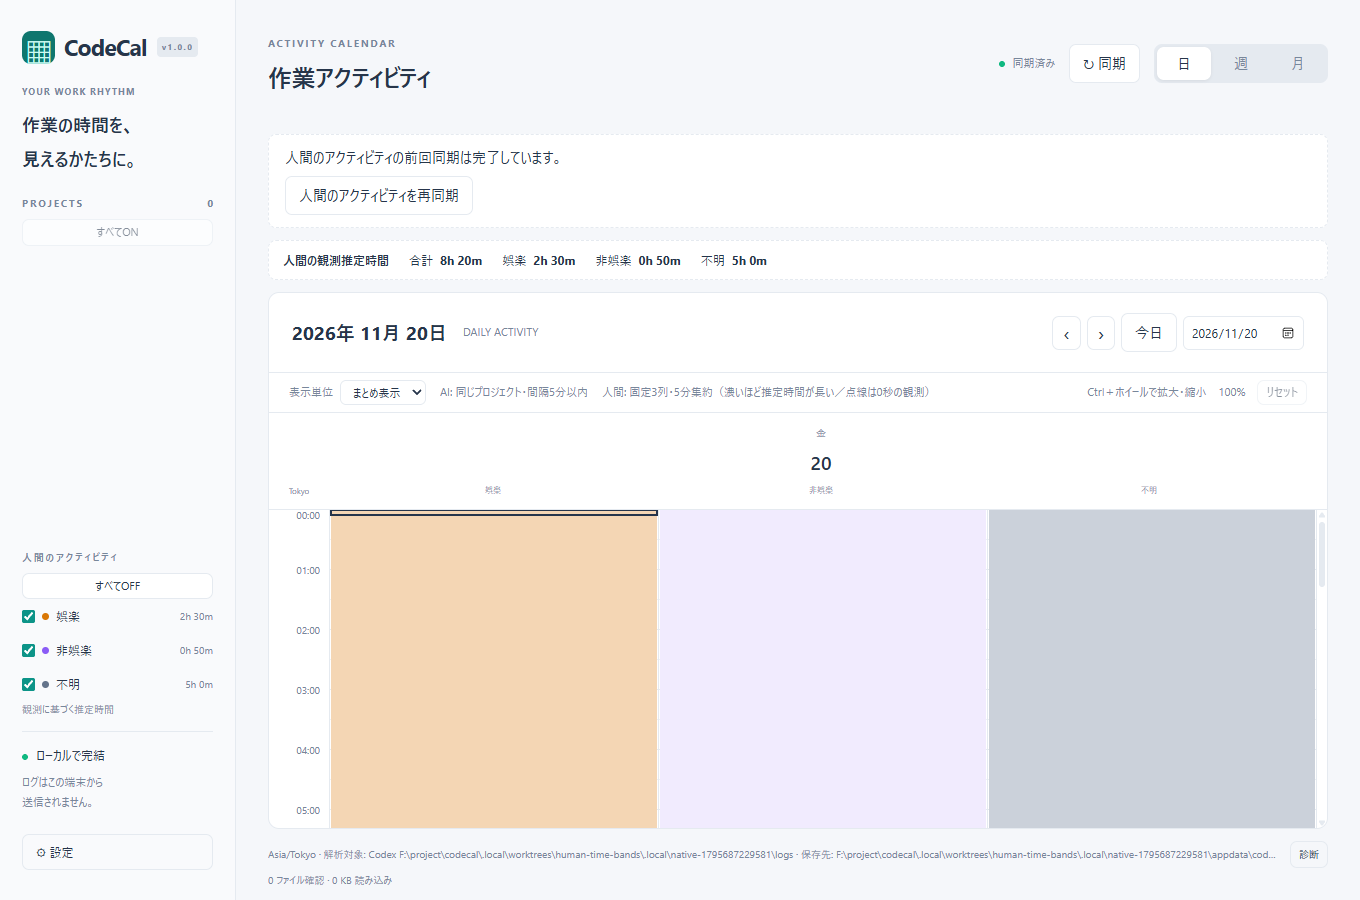
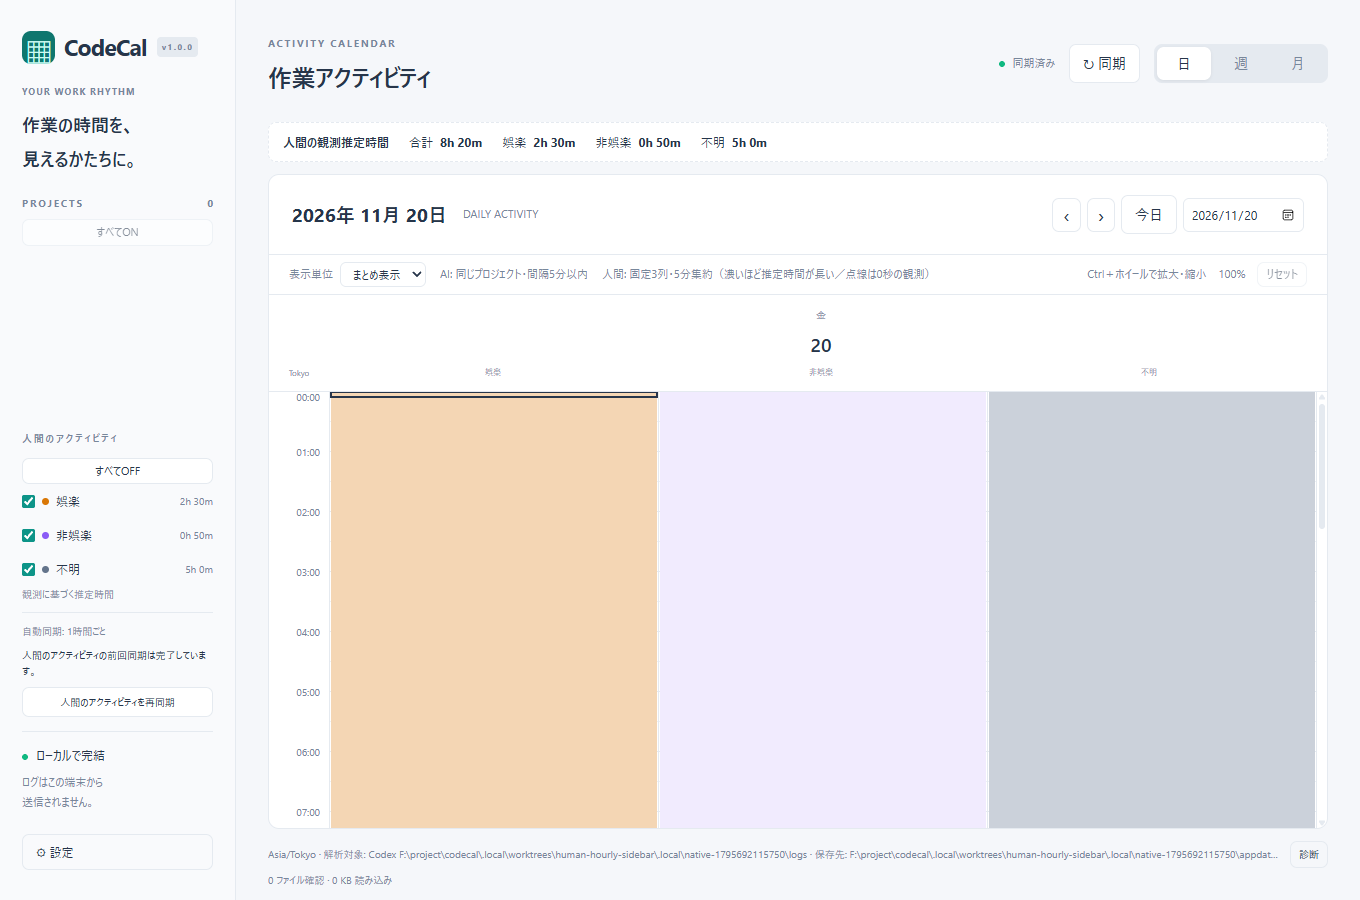
test: verify hourly sidebar synchronization in native Windows

diff --git a/tests/e2e/native.spec.ts b/tests/e2e/native.spec.ts
@@ -102,6 +102,22 @@ test("human settings: legacy memory database, isolated IPC, WAL updates, OFF res
     db.exec(
       "UPDATE activity_records SET payload=json_set(payload,'$.durationEstimate',180)",
     );
+    const humanSidebar = page.getByRole("region", {
+      name: "人間のアクティビティ",
+      exact: true,
+    });
+    const humanSync = humanSidebar.getByRole("region", {
+      name: "人間のアクティビティ同期",
+      exact: true,
+    });
+    await expect(humanSync).toContainText("1時間ごと");
+    expect((await period()).records[0].end).toBe(captured + 120000);
+    await humanSync
+      .getByRole("button", {
+        name: "人間のアクティビティを再同期",
+        exact: true,
+      })
+      .click();
     await expect
       .poll(async () => (await period()).records[0]?.end, { timeout: 40000 })
       .toBe(captured + 180000);
@@ -322,11 +338,37 @@ test("human settings: legacy memory database, isolated IPC, WAL updates, OFF res
       const removeProject = fixture.prepare("DELETE FROM projects WHERE id=?");
       for (const id of fixtureProjects) removeProject.run(id);
       fixture.close();
+      const beforeCleanup = (await ipc<{ revision: number }>("human_status"))
+        .revision;
       await ipc("sync_logs");
+      await expect
+        .poll(async () => {
+          const status = await ipc<{ revision: number; busy: boolean }>(
+            "human_status",
+          );
+          return status.revision > beforeCleanup && !status.busy;
+        })
+        .toBe(true);
     }
     for (const file of [cachePath, `${cachePath}-wal`, `${cachePath}-shm`]) {
-      if (existsSync(file))
-        expect(readFileSync(file).includes(Buffer.from(marker))).toBe(false);
+      let bytes: Buffer = Buffer.alloc(0);
+      await expect
+        .poll(() => {
+          try {
+            bytes = existsSync(file) ? readFileSync(file) : Buffer.alloc(0);
+            return true;
+          } catch (error) {
+            if (
+              ["EBUSY", "ENOENT"].includes(
+                (error as NodeJS.ErrnoException).code ?? "",
+              )
+            )
+              return false;
+            throw error;
+          }
+        })
+        .toBe(true);
+      expect(bytes.includes(Buffer.from(marker))).toBe(false);
     }
     await page.getByRole("button", { name: "設定", exact: true }).click();
     await page.getByLabel("人間のアクティビティ機能を有効にする").uncheck();
@@ -1921,6 +1963,7 @@ test("human bands: dense day/week lanes, duration coverage and keyboard details"
     });
     if (await guide.count()) await guide.click();
     await page.getByRole("button", { name: "設定", exact: true }).click();
+    await page.getByLabel("テーマ", { exact: true }).selectOption("light");
     await page.getByLabel("れいの AI 実行履歴を取り込む").uncheck();
     await page.getByLabel("Claude Code の履歴を取り込む").uncheck();
     await page.getByLabel("人間のアクティビティ機能を有効にする").check();
@@ -1951,6 +1994,30 @@ test("human bands: dense day/week lanes, duration coverage and keyboard details"
     await expect(
       page.getByRole("region", { name: "表示期間の集計" }),
     ).toHaveCount(0);
+    const sidebarSync = page
+      .getByRole("region", { name: "人間のアクティビティ", exact: true })
+      .getByRole("region", { name: "人間のアクティビティ同期", exact: true });
+    await expect(sidebarSync).toContainText("1時間ごと");
+    await expect(page.locator(".workspace .human-sync")).toHaveCount(0);
+    const normalViewport =
+      page.viewportSize() ??
+      (await page.evaluate(() => ({
+        width: window.innerWidth,
+        height: window.innerHeight,
+      })));
+    await page.setViewportSize({ width: 1100, height: 600 });
+    const manual = sidebarSync.getByRole("button", {
+      name: "人間のアクティビティを再同期",
+      exact: true,
+    });
+    await manual.scrollIntoViewIfNeeded();
+    await expect(manual).toBeVisible();
+    await expect(
+      sidebarSync.locator("..").locator(".sidebar-label"),
+    ).toBeInViewport();
+    await page.getByRole("button", { name: "設定", exact: true }).click();
+    await page.getByRole("button", { name: "閉じる", exact: true }).click();
+    await page.setViewportSize(normalViewport);
     const first = page
       .locator('.human-time-lane[data-kind="entertainment"] button')
       .first();
@@ -1989,6 +2056,31 @@ test("human bands: dense day/week lanes, duration coverage and keyboard details"
     await expect(
       page.locator('.human-time-lane[data-kind="unknown"] button'),
     ).toHaveCount(0);
+    const missingRoot = path.join(root, "missing-human-source");
+    mkdirSync(missingRoot, { recursive: true });
+    await page.getByRole("button", { name: "設定", exact: true }).click();
+    await page.getByLabel("れい データディレクトリ").fill(missingRoot);
+    await page.getByRole("button", { name: "設定を保存", exact: true }).click();
+    const warnedSettings = page.getByRole("dialog", {
+      name: "設定",
+      exact: true,
+    });
+    await expect(warnedSettings).toContainText(
+      "前回の正常なキャッシュは保持します",
+    );
+    await warnedSettings
+      .getByRole("button", { name: "閉じる", exact: true })
+      .click();
+    await expect(warnedSettings).toHaveCount(0);
+    await expect(sidebarSync.getByRole("alert")).toContainText(
+      "保存先を開けません",
+    );
+    await page.setViewportSize({ width: 1100, height: 600 });
+    await manual.scrollIntoViewIfNeeded();
+    await expect(manual).toBeVisible();
+    await expect(
+      sidebarSync.locator("..").locator(".sidebar-label"),
+    ).toBeInViewport();
     await page.getByRole("button", { name: "設定", exact: true }).click();
     await page.getByLabel("人間のアクティビティ機能を有効にする").uncheck();
     await page.getByRole("button", { name: "設定を保存", exact: true }).click();

diff --git a/docs/human-hourly-sidebar-tests.md b/docs/human-hourly-sidebar-tests.md
@@ -1,12 +1,20 @@
 # 人間の自動同期とサイドバーのテスト
 
-- [ ] 人間の自動確認・変更通知による同期は前回完了から1時間空け、通知を集約する
-- [ ] 初回ON・Root変更・手動同期は待機せず、自動更新OFF・機能OFFでは自動取得しない
-- [ ] 1時間境界・変更なしスキップ・失敗後の再試行・保存先切替を短い試験用間隔で実ワーカー検証する
-- [ ] 同期中に届いた通知を次回へ保持し、自動更新OFFへの変更で古い予約を解除する
-- [ ] 同期状況・エラー・診断・手動再同期を左メニューの人間セクション末尾へ移す
-- [ ] 狭い高さ、長いエラー、ライト/ダークでも同期ボタンと設定が操作できる
-- [ ] AIの自動更新間隔とReiのデータ・設定は変更しない
-- [ ] 全回帰・静的検査・ビルド・Windowsネイティブ・画面確認
+- [x] 人間の自動確認・変更通知による同期は前回完了から1時間空け、通知を集約する
+- [x] 初回ON・Root変更・手動同期は待機せず、自動更新OFF・機能OFFでは自動取得しない
+- [x] 1時間境界・変更なしスキップ・失敗後の再試行・保存先切替を短い試験用間隔で実ワーカー検証する
+- [x] 同期中に届いた通知を次回へ保持し、自動更新OFFへの変更で古い予約を解除する
+- [x] 同期状況・エラー・診断・手動再同期を左メニューの人間セクション末尾へ移す
+- [x] 狭い高さ、長いエラー、ライト/ダークでも同期ボタンと設定が操作できる
+- [x] AIの自動更新間隔とReiのデータ・設定は変更しない
+- [x] 全回帰・静的検査・ビルド・Windowsネイティブ・画面確認
 
 運用終了条件: PR CI、通常マージ、マージ後CI、main更新、専用worktreeとローカル/リモートブランチの通常削除。
+
+ローカル検証: Rust135（全target/benchmark feature/直列）、Vitest117、Python17、release9、Windows native19（最終全体18成功＋既存起動試験のDevTools接続タイムアウト1件を単独再確認して成功）、計297ケースを確認。fmt/Clippy/typecheck/lint/Prettier/Vite/Tauri NSIS成功。既存5秒待機がローカル並列でタイムアウトしたため、待機を延長せず直列で全件を確認した。CIでは既定の並列実行とネイティブ全19件も確認する。
+
+合成worker smoke（1万件、明示的なbenchmark featureの1秒間隔）も成功。製品の1時間境界は通常constructorと時計境界の試験で検証し、通知なしの再試行・保存先切替はprivate constructorの短い試験間隔で検証した。Reiの原本や設定は変更していない。
+
+画面例は合成データのみ: [日](screenshots/human-bands-day.png) / [週](screenshots/human-bands-week.png)。600px高と長い読取エラーでも、再同期・設定ボタンが操作できることをネイティブ確認した。
+
+キャッシュの禁止内容検査は、手動同期の完了をrevisionで待ち、Windowsの一時的なEBUSY/ファイル消滅だけを再試行してから内容を検査する。禁止内容を含む場合の失敗を再試行で隠さない。

diff --git a/README.md b/README.md
@@ -2,7 +2,7 @@
 
 Rei が記録した人間のアクティビティを、AI履歴とは独立した日・週の時間帯、月の種別バー、日別一覧で表示できます。[日表示](docs/screenshots/human-bands-day.png)・[週表示](docs/screenshots/human-bands-week.png)の画面例は合成データです。[設計とプライバシー方針](docs/human-activity-design.md)、[性能計測](docs/human-activity-performance.md)、[フェーズ別テストリスト](docs/human-activity-test-list.md)を参照してください。
 
-設定で「人間のアクティビティ機能を有効にする」を ON にし、れいのデータディレクトリを指定します。人間の観測テーブルがある `storage.db` を優先し、従来構成の `memory.db` にも対応します。既定は OFF。「れいの AI 実行履歴を取り込む」と独立した設定です。保存成功後に反映し、OFF では原本読み取り・人間の期間取得を停止してキャッシュを保持します。種別は娯楽・非娯楽・不明で、非娯楽は仕事・生産性を意味せず、不明は観測済みの未確定分類です。未観測の空白は含みません。
+設定で「人間のアクティビティ機能を有効にする」を ON にし、れいのデータディレクトリを指定します。人間の観測テーブルがある `storage.db` を優先し、従来構成の `memory.db` にも対応します。既定は OFF。「れいの AI 実行履歴を取り込む」と独立した設定です。人間の自動同期は1時間ごとで、ファイルの変更通知も次回までまとめます。手動同期・初回ON・保存先変更は即時です。同期状態と再同期ボタンは左メニューの人間セクション末尾にあります。保存成功後に反映し、OFF では原本読み取り・人間の期間取得を停止してキャッシュを保持します。種別は娯楽・非娯楽・不明で、非娯楽は仕事・生産性を意味せず、不明は観測済みの未確定分類です。未観測の空白は含みません。
 
 人間の日・週は「娯楽・非娯楽・不明」の固定3列に5分単位で集約します。各枠の推定時間が長いほど濃く、不明は薄いグレー、未観測は空白、0秒の観測は点線で表示します。クリックすると時間帯の内訳を確認でき、ズームは時間方向だけを拡大します。AIの「まとめ表示 / 記録単位」は独立して切り替えられます。人間の3種別フィルタとAIプロジェクトフィルタは独立し、一覧の種別時間はフィルタ前の値です。人間の詳細には種別・日付・開始・終了・推定時間だけを表示します。ウィンドウ名、アプリ名、画像、観測IDや元の判定文字列は取得・表示しません。
 

diff --git a/docs/architecture.md b/docs/architecture.md
@@ -55,7 +55,7 @@ DBの実パスから状態ファイルの絶対パスを作り、公式プラグ
 最小化済み一時DBとキャッシュを native_id 順に一度ずつ読み、差分と変更前の開始時刻だけをディスク上のTEMP表へ取り出します。
 Rei原本はCodeCal DBへATTACHしません。通常の差分確認用読み取りを閉じてから、キャッシュ反映のトランザクションを開始します。全ソースの人間キャッシュが空で、観測開始が原本rowid順に非減少の場合だけ、最小化済み一時DBを `mode=ro` で接続してSQLite内で一括挿入します。接続APIは非公開のHumanStageだけを受け取り、原本パスは渡せません。読み取り専用を検証し、成功・失敗・取消しの全経路で切り離します。
 同一ソースの少数変更では該当時刻と前観測だけ、大量変更では索引順の走査で実効終了を確定します。
-`human_runtime` は専用の単一 worker と原本接続を持ち、既存 Store Mutex を保持せずに走査します。保持接続の data_version、DB/WAL のファイル監視、30秒の補完確認、600msの通知集約と自動同期の最小1秒間隔を使います。手動同期は全確認です。
+`human_runtime` は専用の単一 worker と原本接続を持ち、既存 Store Mutex を保持せずに走査します。保持接続の data_version とDB/WAL通知を使い、人間の自動確認は前回の同期試行完了から1時間間隔です。通知は次回まで集約し、通知によって1時間より早く原本を読み直しません。手動同期・初回ON・Root変更は即時に全確認します。自動更新OFFで予約を解除します。AIの30秒補完走査は別系統のままです。
 設定操作用の直列化ロック、差分確認〜commit/期間取得/設定保存/削除用の確定ゲート、小さい制御状態の Mutex と原子的な設定世代を分けています。原本走査は確定ゲートの外で行い、確定前にも世代を照合します。設定保存失敗では世代を変えません。
 Rei の監視は人間のみなら storage.db/-wal の固定ファイルだけ、AI有効時は projects.json と projects 配下も対象にします。両方OFFで Rei の監視を外します。物理IDの変化により監視を張り直し、ファイル出現は固定パスの再確認で検知します。
 専用 IPC は human_activity(from,to)、human_status、sync_human、clear_human_activity(all)。人間を既存全件 snapshotへ追加しません。状態イベントも設定世代を持ち、React の期間フックは別期間・別設定・古い世代の結果を棄却します。
